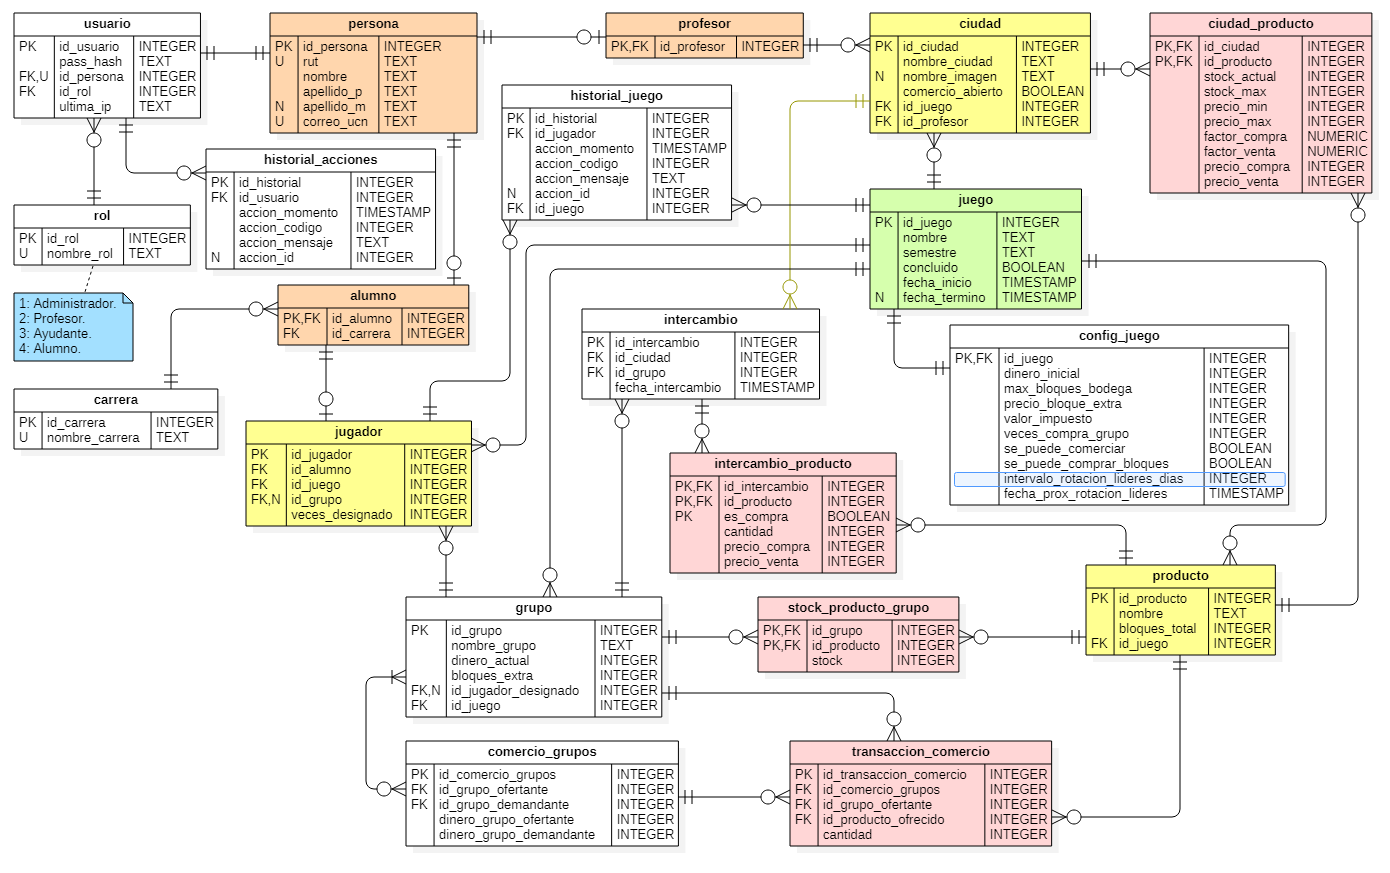
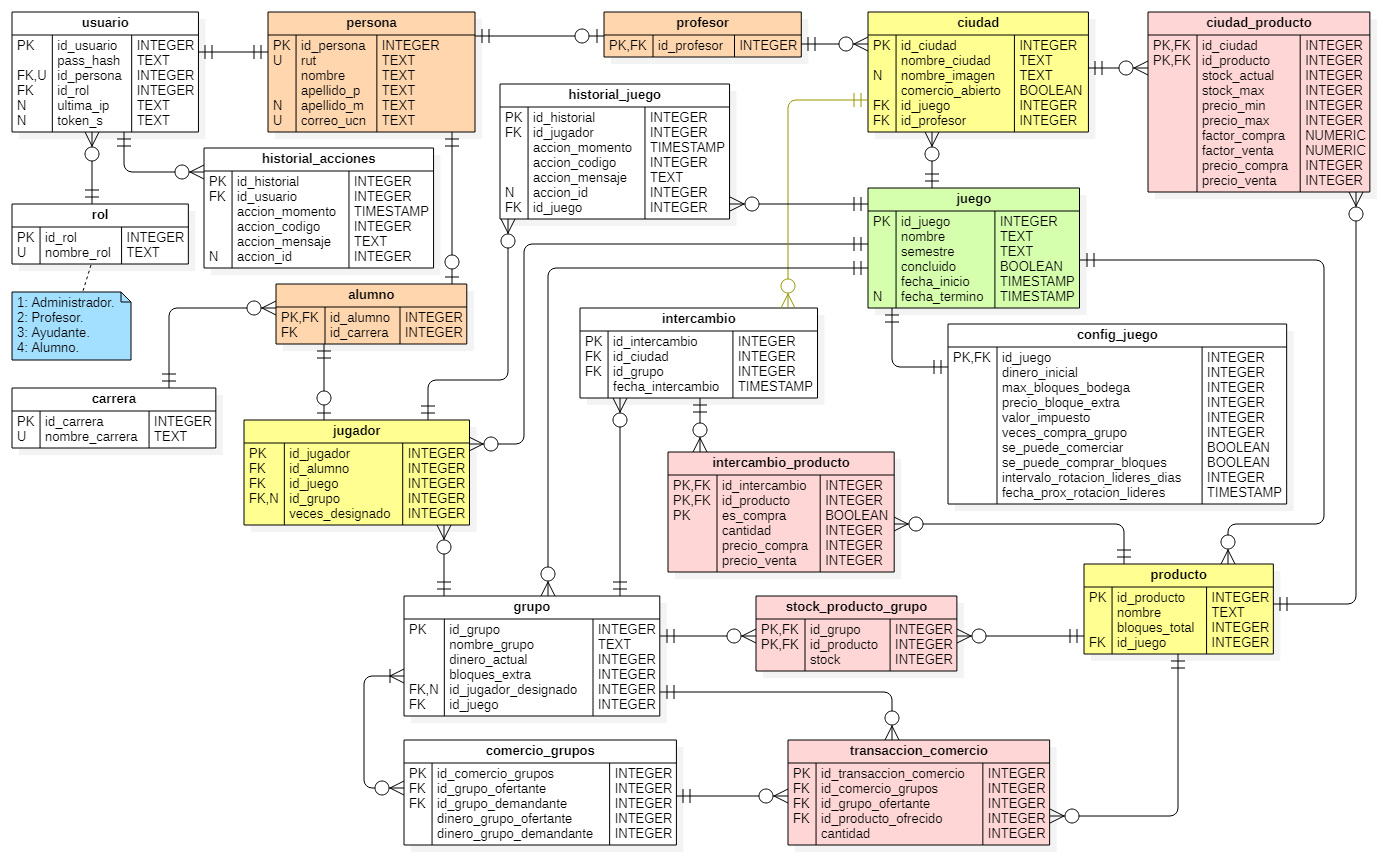
- DB Actualizada. Volver a correr script. - Corregidos ciertos aspectos del auth. - Agregada librería cryptr (ejecutar npm -i) - Eliminado el parámetro code de las respuestas 200 (innecesario).

Changed region(s): [[0.0, 0.0, 0.9928, 0.9965], [0.8377, 0.9059, 0.8687, 0.9361]]

diff --git a/server/src/controllers/game.ts b/server/src/controllers/game.ts
@@ -10,7 +10,7 @@ export default class GameController {
 
     public static getAllGames (req:Request, res:Response) {
         GameModel.getAllGames()
-        .then((data) => res.json({code: 0, msg: 'Datos recuperados', data: data}))
+        .then((data) => res.json({msg: 'Datos recuperados', data: data}))
         .catch((err) => res.status(500).json({code: 1, msg: 'Error interno del servidor'}) );
     }
 
@@ -18,7 +18,7 @@ export default class GameController {
         const id = Number(req.params.gameId);
         
         GameModel.getGameById(id)
-        .then((data) => res.json({code: 0, msg: 'Datos recuperados', data: data}))
+        .then((data) => res.json({msg: 'Datos recuperados', data: data}))
         .catch((err:Error) => {
             const x = checkError(err);
             return res.status(x.httpCode).json(x.body);
@@ -29,7 +29,7 @@ export default class GameController {
         const id = Number(req.params.gameId);
         
         GameModel.getAllGameCities(id)
-        .then((data) => res.json({code: 0, msg: 'Datos recuperados', data: data}))
+        .then((data) => res.json({msg: 'Datos recuperados', data: data}))
         .catch((err:Error) => {
             const x = checkError(err);
             return res.status(x.httpCode).json(x.body);
@@ -41,7 +41,7 @@ export default class GameController {
         const idCiudad = Number(req.params.cityId);
         
         GameModel.getGameCityById(idJuego, idCiudad)
-        .then((data) => res.json({code: 0, msg: 'Datos recuperados', data: data}))
+        .then((data) => res.json({msg: 'Datos recuperados', data: data}))
         .catch((err:Error) => {
             const x = checkError(err);
             return res.status(x.httpCode).json(x.body);
@@ -53,7 +53,7 @@ export default class GameController {
         const idCiudad = Number(req.params.cityId);
 
         GameModel.getAllGameCityProducts(idJuego,idCiudad)
-        .then((data) => res.json({code: 0, msg: 'Datos recuperados', data: data}))
+        .then((data) => res.json({msg: 'Datos recuperados', data: data}))
         .catch((err:Error) => {
             const x = checkError(err);
             return res.status(x.httpCode).json(x.body);
@@ -66,7 +66,7 @@ export default class GameController {
         const idProducto = Number(req.params.productId);
 
         GameModel.getGameCityProductById(idJuego,idCiudad,idProducto)
-        .then((data) => res.json({code: 0, msg: 'Datos recuperados', data: data}))
+        .then((data) => res.json({msg: 'Datos recuperados', data: data}))
         .catch((err:Error) => {
             const x = checkError(err);
             return res.status(x.httpCode).json(x.body);
@@ -77,7 +77,7 @@ export default class GameController {
         const idJuego = Number(req.params.gameId);
 
         GameModel.getAllProducts(idJuego)
-        .then((data) => res.json({code: 0, msg: 'Datos recuperados', data: data}))
+        .then((data) => res.json({msg: 'Datos recuperados', data: data}))
         .catch((err:Error) => {
             const x = checkError(err);
             return res.status(x.httpCode).json(x.body);
@@ -89,7 +89,7 @@ export default class GameController {
         const idProducto = Number(req.params.productId);
 
         GameModel.getProductById(idJuego,idProducto)
-        .then((data) => res.json({code: 0, msg: 'Datos recuperados', data: data}))
+        .then((data) => res.json({msg: 'Datos recuperados', data: data}))
         .catch((err:Error) => {
             const x = checkError(err);
             return res.status(x.httpCode).json(x.body);
@@ -100,7 +100,7 @@ export default class GameController {
         const idJuego = Number(req.params.gameId);
 
         GameModel.getAllplayers(idJuego)
-        .then((data) => res.json({code: 0, msg: 'Datos recuperados', data: data}))
+        .then((data) => res.json({msg: 'Datos recuperados', data: data}))
         .catch((err:Error) => {
             const x = checkError(err);
             return res.status(x.httpCode).json(x.body);
@@ -112,7 +112,7 @@ export default class GameController {
         const idJugador = Number(req.params.playerId);
 
         GameModel.getPlayerById(idJuego,idJugador)
-        .then((data) => res.json({code: 0, msg: 'Datos recuperados', data: data}))
+        .then((data) => res.json({msg: 'Datos recuperados', data: data}))
         .catch((err:Error) => {
             const x = checkError(err);
             return res.status(x.httpCode).json(x.body);
@@ -123,7 +123,7 @@ export default class GameController {
         const idJuego = Number(req.params.gameId);
 
         GameModel.getAllGroups(idJuego)
-        .then((data) => res.json({code: 0, msg: 'Datos recuperados', data: data}))
+        .then((data) => res.json({msg: 'Datos recuperados', data: data}))
         .catch((err:Error) => {
             const x = checkError(err);
             return res.status(x.httpCode).json(x.body);
@@ -135,7 +135,7 @@ export default class GameController {
         const idGrupo = Number(req.params.groupId);
 
         GameModel.getGroupById(idJuego,idGrupo)
-        .then((data) => res.json({code: 0, msg: 'Datos recuperados', data: data}))
+        .then((data) => res.json({msg: 'Datos recuperados', data: data}))
         .catch((err:Error) => {
             const x = checkError(err);
             return res.status(x.httpCode).json(x.body);
@@ -147,7 +147,7 @@ export default class GameController {
         const idGrupo = Number(req.params.groupId);
 
         GameModel.getGroupCityTrades(idJuego,idGrupo)
-        .then((data) => res.json({code: 0, msg: 'Datos recuperados', data: data}))
+        .then((data) => res.json({msg: 'Datos recuperados', data: data}))
         .catch((err:Error) => {
             const x = checkError(err);
             return res.status(x.httpCode).json(x.body);
@@ -160,7 +160,7 @@ export default class GameController {
         const idIntercambio = Number(req.params.tradeId);
 
         GameModel.getGroupCityTradeById(idJuego,idGrupo,idIntercambio)
-        .then((data) => res.json({code: 0, msg: 'Datos recuperados', data: data}))
+        .then((data) => res.json({msg: 'Datos recuperados', data: data}))
         .catch((err:Error) => {
             const x = checkError(err);
             return res.status(x.httpCode).json(x.body);
@@ -205,7 +205,7 @@ export default class GameController {
         }
 
         GameModel.doTrade(idJuego,idGrupo,idCiudad,moment(),productos)
-        .then((data) => res.json({code: 0, msg: 'Transacción realizada'}))
+        .then((data) => res.json({msg: 'Transacción realizada'}))
         .catch((err:Error) => {
             const x = checkError(err);
             return res.status(x.httpCode).json(x.body);

diff --git a/server/src/controllers/auth.ts b/server/src/controllers/auth.ts
@@ -2,6 +2,7 @@ import { Request, Response, NextFunction } from 'express'
 import empty from 'is-empty'
 import rut from 'rut.js'
 import bcrypt from 'bcryptjs';
+import Cryptr from 'cryptr';
 
 import Token, { JwtData } from '../classes/token';
 
@@ -10,7 +11,17 @@ import checkError, { ErrorHandler } from '../middleware/errorHandler';
 import AuthModel from '../models/auth'
 
 export default class AuthController {
+    
+    private static encryptId (id:string) : string {
+        const x = new Cryptr(String(process.env.CRYPTR_KEY));
+        return x.encrypt(id);
+    }
 
+    private static decryptId (hash:string) : string {
+        const x = new Cryptr(String(process.env.CRYPTR_KEY));
+        return x.decrypt(hash);
+    }
+    
     static loginUser (req: Request, res: Response) {
         const body:any = req.body, errors:any = {};
         
@@ -29,10 +40,18 @@ export default class AuthController {
         AuthModel.getLoginData(rut.format(body.rut), body.isTeacher ? '' : body.teamname)
         .then(async (data) => {
             if (bcrypt.compareSync(body.password, data.passHash)) {
-                const tkn = Token.getJwtToken({ id: data.idUsuario });
+
+                const crypt = AuthController.encryptId(data.idUsuario);
+
+                const tkn = Token.getJwtToken({ id: crypt });
                 try {
-                    await AuthModel.setLogin(data.idUsuario, req.ip);
-                    return res.json({code: 0, msg: 'Acceso correcto', token: tkn});
+                    await AuthModel.setLogin(data.idUsuario, req.ip, crypt);
+                    return res.json({msg: 'Acceso correcto', data: {
+                        token: tkn,
+                        rol: data.nombreRol,
+                        gameId: (data.nombreRol === "JUGADOR" ? data.idJuego : null),
+                        teamId: (data.nombreRol === "JUGADOR" ? data.idGrupo : null)
+                    }});
                 } catch (error) {
                     throw new Error ("UPDATE_LOGIN_FAILED");
                 }
@@ -47,8 +66,13 @@ export default class AuthController {
 
     }
 
-    static logoutUser (req: Request, res: Response) {
-        return res.json({code: 0, msg: 'Se ha cerrado la sesión'});
+    static logoutUser (req: any, res: Response) {
+        AuthModel.destroyTokenByUserId(req.userId)
+        .then( () => res.json({msg: 'Se ha cerrado la sesión'}) )
+        .catch( () => {
+            const x = checkError(new Error('TOKEN_NOT_DESTROYED'));
+            return res.status(x.httpCode).json(x.body);
+        });
     }
 
     static checkAuth (req: any, res: Response, next:NextFunction) {
@@ -59,10 +83,12 @@ export default class AuthController {
             return res.status(x.httpCode).json(x.body);
         }
 
-        AuthModel.getTokenDataByUserId((x as JwtData).id)
+        let userId = AuthController.decryptId((x as JwtData).id);
+
+        AuthModel.getTokenDataByUserId(Number(userId))
         .then((data) => {
-            if (data.ultimaIp == req.ip) {
-                req.usuario = (x as JwtData).id;
+            if (data.ultimaIp == req.ip && data.tokenS === (x as JwtData).id) {
+                req.userId = userId;
                 next();
             } else {
                 const x = checkError(new Error('INVALID_TOKEN'));
@@ -72,13 +98,16 @@ export default class AuthController {
     }
 
     static renewToken (req: any, res: Response) {
-        const tkn = Token.getJwtToken({ id: req.usuario });
-        AuthModel.setLogin(req.usuario, req.ip)
-            .then( data => {
-                return res.json({code: 0, msg: 'Token actualizado', token: tkn});
+        const crypt = AuthController.encryptId(req.userId);
+
+        const tkn = Token.getJwtToken({ id: crypt });
+        AuthModel.setLogin(req.userId, req.ip, crypt)
+            .then((data) => {
+                return res.json({msg: 'Token actualizado', token: tkn});
             })
-            .catch( err => {
-                const x = checkError(err);
+            .catch( (err) => { 
+                console.log(err);
+                const x = checkError(new Error('TOKEN_UPDATE_ERROR'));
                 return res.status(x.httpCode).json(x.body);
             });
     }

diff --git a/server/src/controllers/data.ts b/server/src/controllers/data.ts
@@ -9,7 +9,7 @@ export default class DataController {
 
     static getAllCarreras(req: Request, res: Response, next: NextFunction) {
         DataModel.getAllCarreras()
-        .then( (data) => res.json({code: 0, msg:'Carreras obtenidas', data: data}) )
+        .then( (data) => res.json({msg:'Carreras obtenidas', data: data}) )
         .catch( (err) => res.status(400).json({code: 1, msg: 'Error retornando los datos'}) )
     }
 
@@ -20,7 +20,7 @@ export default class DataController {
             return res.status(400).json({code: 1, msg:'El valor entregado es inválido'});
 
         DataModel.getCarreraById(id)
-            .then( (data) => res.json({code: 0, msg:'Carrera obtenida', data: data}) )
+            .then( (data) => res.json({msg:'Carrera obtenida', data: data}) )
             .catch( (err:Error) => {
                 if (err.message == 'CARRERA_GET_ERROR') {
                     return res.status(400).json({code: 1, msg: 'No se pudo obtener la carrera'});
@@ -42,7 +42,7 @@ export default class DataController {
 
 
         DataModel.createCarrera (nombre)
-            .then( (data) => res.json({code: 0, msg:'Carrera creada', data: data}) )
+            .then( (data) => res.json({msg:'Carrera creada', data: data}) )
             .catch( (err:Error) => {
                 switch (err.message) {
                     case 'CARRERA_DUPLICATE_ERROR':
@@ -70,7 +70,7 @@ export default class DataController {
             return res.status(400).json({code: 1, msg:'El valor entregado es inválido'});
 
         DataModel.updateCarrera (id, nombre)
-            .then( (data) => res.json({code: 0, msg:'Carrera actualizada', data: data}) )
+            .then( (data) => res.json({msg:'Carrera actualizada', data: data}) )
             .catch( (err:Error) => {
                 switch (err.message) {
                     case 'CARRERA_DUPLICATE_ERROR':
@@ -87,7 +87,7 @@ export default class DataController {
 
     static getAllRoles (req:Request, res:Response, next: NextFunction) {
         DataModel.getAllRoles()
-            .then( (data) => res.json({code: 0, msg: 'Roles retornados', data: data}) )
+            .then( (data) => res.json({msg: 'Roles retornados', data: data}) )
             .catch( (err) => res.status(400).json({code: 1, msg: 'Error retornando los datos'}));
     }
 
@@ -98,7 +98,7 @@ export default class DataController {
             return res.status(400).json({code: 1, msg:'El valor entregado es inválido'});
         
         DataModel.getRolById(id)
-            .then( (data) => res.json({code: 0, msg: 'Rol retornado', data: data}) )
+            .then( (data) => res.json({msg: 'Rol retornado', data: data}) )
             .catch( (err) => {
                 if (err.message == 'ROL_GET_ERROR') {
                     return res.status(400).json({code: 1, msg: 'No se pudo actualizar el rol'});

diff --git a/server/src/middleware/errorHandler.ts b/server/src/middleware/errorHandler.ts
@@ -18,18 +18,22 @@ export default function checkError (err:Error, errData:any = {}) : ErrorHandler 
     switch (err.message) {
         // DATOS INCORRECTOS
         case 'WRONG_DATA':
-            return { httpCode: 400, body: { code: 1, msg: 'Datos incorrectos', err: errData} };
+            return { httpCode: 400, body: { code: 2501, msg: 'Datos incorrectos', err: errData} };
         // LOGIN
-        case 'UPDATE_LOGIN_FAILED':
-            return { httpCode: 400, body: { code: 1, msg: 'Los datos de acceso son incorrectos'}};
-        case 'LOGIN_FAILED':
-            return { httpCode: 400, body: { code: 1, msg: 'Los datos de acceso son incorrectos'}};
         case 'TEAMNAME_OR_PLAYER_NOT_FOUND':
-            return { httpCode: 400, body: { code: 1, msg: 'Los datos de acceso son incorrectos.'}}
+            return { httpCode: 400, body: { code: 2601, msg: 'Los datos de acceso son incorrectos'} };
         case 'USER_NOT_FOUND':
-            return { httpCode: 400, body: { code: 1, msg: 'Los datos de acceso son incorrectos.'}}
+            return { httpCode: 400, body: { code: 2602, msg: 'Los datos de acceso son incorrectos'} };
+        case 'LOGIN_FAILED':
+            return { httpCode: 400, body: { code: 2801, msg: 'Los datos de acceso son incorrectos'} };
+        case 'UPDATE_LOGIN_FAILED':
+            return { httpCode: 400, body: { code: 2802, msg: 'Hubo un problema al iniciar sesión. Reintente en unos minutos'} };
         case 'INVALID_TOKEN':
-            return { httpCode: 400, body: { code: 1, msg: 'El token entregado es inválido.'}}
+            return { httpCode: 400, body: { code: 2901, msg: 'El token entregado es inválido'} };
+        case 'TOKEN_NOT_DESTROYED':
+            return { httpCode: 400, body: { code: 2902, msg: 'No se ha podido cerrar la sesión correctamente'} };
+        case 'TOKEN_UPDATE_ERROR':
+            return { httpCode: 400, body: { code: 2903, msg: 'No se ha podido renovar el token'} };
             // OTROS
         case 'GAME_NOT_EXIST':
             return { httpCode: 400, body: { code: 1, msg: 'El juego indicado no existe'} };

diff --git a/server/src/models/auth.ts b/server/src/models/auth.ts
@@ -5,7 +5,7 @@ export default class AuthModel {
         if (teamname !== "") {
             return pgQuery.one('\
                 SELECT p.rut, p.nombre, p.apellido_p, p.apellido_m, p.correo_ucn, \
-                    u.id_usuario, u.pass_hash, r.nombre_rol, r.id_rol \
+                    u.id_usuario, u.pass_hash, r.nombre_rol, r.id_rol, j.id_juego, g.id_grupo \
                 FROM grupo g \
                     INNER JOIN juego j ON g.id_juego = j.id_juego \
                     INNER JOIN jugador ju ON ju.id_jugador = g.id_jugador_designado \
@@ -26,11 +26,15 @@ export default class AuthModel {
         }
     }   
 
-    static setLogin(userId:number, ipAddress:string) {
-        return pgQuery.one('UPDATE usuario SET ultima_ip = $1 WHERE id_usuario = $2 RETURNING id_usuario',[ipAddress,userId]);
+    static setLogin(userId:number, ipAddress:string, crypt:string) {
+        return pgQuery.one('UPDATE usuario SET ultima_ip = $1, token_s = $3 WHERE id_usuario = $2 RETURNING id_usuario',[ipAddress,userId,crypt]);
     }   
 
     static getTokenDataByUserId (userId:number) {
-        return pgQuery.one('SELECT id_usuario, ultima_ip FROM usuario WHERE id_usuario = $1',userId);
+        return pgQuery.one('SELECT id_usuario, ultima_ip, token_s FROM usuario WHERE id_usuario = $1',userId);
+    }
+
+    static destroyTokenByUserId (userId:number) {
+        return pgQuery.one('UPDATE usuario SET ultima_ip = NULL, token_s = NULL WHERE id_usuario = $1 RETURNING id_usuario',[userId]);
     }
 }

diff --git a/server/src/routes/auth.ts b/server/src/routes/auth.ts
@@ -9,6 +9,8 @@ AuthRouter.post('/login', AuthController.loginUser);
 AuthRouter.post('/logout', AuthController.checkAuth, AuthController.logoutUser);
 
 // Los tokens tienen duración de 1 hora, pero hay que renovarlos cada 30 min por si acaso.
-AuthRouter.get('/renew', AuthController.checkAuth, AuthController.renewToken);
+AuthRouter.post('/renew', AuthController.checkAuth, AuthController.renewToken);
+
+AuthRouter.get('/validate', AuthController.checkAuth, (req, res) => res.json({msg: "Token válido"}));
 
 export default AuthRouter;

diff --git a/server/src/classes/token.ts b/server/src/classes/token.ts
@@ -1,7 +1,7 @@
 import jwt from 'jsonwebtoken';
 
 export interface JwtData {
-    id: number
+    id: string
 }
 
 export default class Token {
